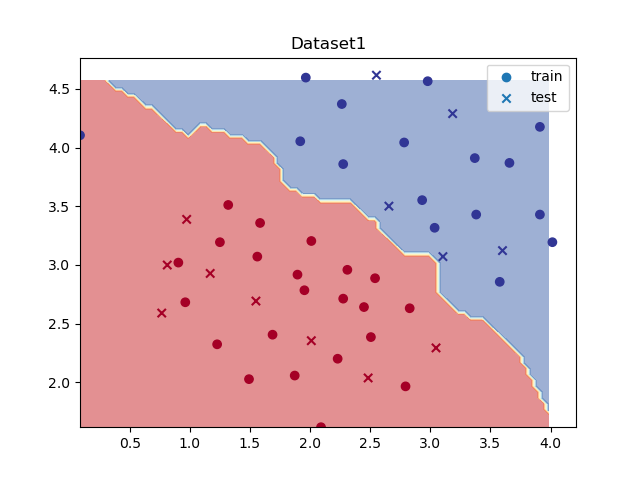
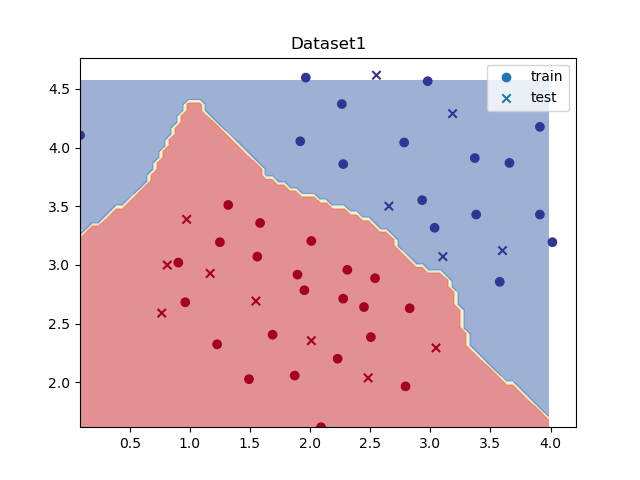
Finished task 3

Changed region(s): [[0.125, 0.1562, 0.4688, 0.5], [0.5938, 0.4688, 0.875, 0.875], [0.5, 0.4062, 0.5938, 0.4688]]

diff --git a/Assignment3/skeleton/task3_2.py b/Assignment3/skeleton/task3_2.py
@@ -11,27 +11,51 @@ from sklearn.feature_selection import RFECV
 import pickle as pkl
 
 if __name__ == '__main__':
-  X_train, X_test, y_train, y_test = get_toy_dataset(4)
+    X_train, X_test, y_train, y_test = get_toy_dataset(4)
 
-  #TODO fit a random forest classifier and check how well it performs on the test set after tuning the parameters,
-  # report your results
-  rf = ...
+    # for i in range(10):
+    #   n_estimators = 100
+    #   parameters = {
+    #     'max_depth': [2, 5, 10, 25,50, 100,200,None]
+    #   }
+    #   rf = RandomForestClassifier(n_estimators=n_estimators)
+    #   clf = GridSearchCV(rf, parameters, n_jobs=-1)
+    #   clf.fit(X_train, y_train)
+    #   test_score = clf.score(X_test, y_test)
+    #   print(f"Dataset: {clf.best_params_}")
+    #   print(f'n_estimators: {n_estimators}')
+    #   print("Test Score:", test_score)
+    # # report your results
+    rf = RandomForestClassifier(n_estimators=100, max_depth=None)
+    rf.fit(X_train, y_train)
+    print("Test Score:", rf.score(X_test, y_test))
 
-  #TODO fit a SVC and find suitable parameters, report your results
-  svc = ...
+    plt.bar(np.array(range(25)), rf.feature_importances_)
+    plt.title('feature_importances')
+    plt.savefig(f'images/feature_importances.png')
+    plt.show()
 
-  # TODO create a bar plot (https://matplotlib.org/stable/api/_as_gen/matplotlib.pyplot.barh.html#matplotlib.pyplot.barh)
-  # of the `feature_importances_` of the RF classifier.
 
-  # TODO create another RF classifier
-  # Use recursive feature elimination (https://scikit-learn.org/stable/modules/generated/sklearn.feature_selection.RFECV.html#sklearn.feature_selection.RFECV)
-  # to automatically choose the best number of parameters
-  # set `scoring = 'accuracy'` to look for the feature subset with highest accuracy
-  # and fit the RFECV to the training data
-  rf = ...
-  rfecv = ...
+    svc = SVC()
 
-  # TODO use the RFECV to transform the training and test dataset -- it automatically removes the least important
-  # feature columns from the datasets. You don't have to change y_train or y_test
-  # Fit a SVC classifier on the new dataset. Do you see a difference in performance?
-  svc = ...
+    parameters = [{'kernel': ['rbf'], 'gamma': [1e-3, 1e-4],
+                   'C': [1, 10, 100, 1000]},
+                  {'kernel': ['linear'], 'C': [1, 10, 100, 1000]}]
+
+    clf = GridSearchCV(svc, parameters, n_jobs=-1)
+    clf.fit(X_train, y_train)
+    test_score = clf.score(X_test, y_test)
+    print(f"Best SVC params: {clf.best_params_}")
+    print("Test Score:", test_score)
+
+
+
+    rf = RandomForestClassifier()
+    rfecv = RFECV(rf, scoring='accuracy')
+    reducedX_train = rfecv.fit_transform(X_train, y_train)
+    reducedX_test = rfecv.transform(X_test)
+
+
+    svc = SVC()
+    svc.fit(reducedX_train, y_train)
+    print("Test Score:", svc.score(reducedX_test, y_test))

diff --git a/Assignment3/skeleton/task3_1.py b/Assignment3/skeleton/task3_1.py
@@ -7,13 +7,20 @@ import plotting
 from datasets import get_toy_dataset
 
 if __name__ == '__main__':
-  for idx in [1, 2, 3]:
-    X_train, X_test, y_train, y_test = get_toy_dataset(idx)
-    # TODO start with `n_estimators = 1`
-    rf = RandomForestClassifier()
-    clf = ...
-    clf.fit(X_train, y_train)
-    test_score = clf.score(X_test, y_test)
-    print(f"Dataset {idx}: {clf.best_params_}")
-    print("Test Score:", test_score)
-    #TODO plot decision boundary
+    for idx in [1, 2, 3]:
+        X_train, X_test, y_train, y_test = get_toy_dataset(idx)
+        n_estimators = 1
+        parameters = {
+            'max_depth': [2, 5, 10, 25, 100,None]
+        }
+        rf = RandomForestClassifier(n_estimators=n_estimators)
+        clf = GridSearchCV(rf, parameters, n_jobs=-1)
+        clf.fit(X_train, y_train)
+        test_score = clf.score(X_test, y_test)
+        print(f"Dataset {idx}: {clf.best_params_}")
+        print("Test Score:", test_score)
+        plt.figure()
+        plotting.plot_decision_boundary(X_train, clf)
+        plotting.plot_dataset(X_train, X_test, y_train, y_test)
+        plt.title(f'RandomForestDataset{idx}&n_estimators= {n_estimators}')
+        plt.savefig(f'images/RandomForestDataset{idx}&n_estimators= {n_estimators}.png')

diff --git a/Assignment3/skeleton/task1_2.py b/Assignment3/skeleton/task1_2.py
@@ -15,7 +15,7 @@ if __name__ == '__main__':
 
         knn = KNearestNeighborsClassifier()
 
-        parameters = {'k': [3, 5, 9, 25, 49]}
+        parameters = {'k': [1, 3, 5, 9, 25, 49]}
         clf = GridSearchCV(knn, parameters, return_train_score=True)
 
         clf.fit(X_train, y_train)
